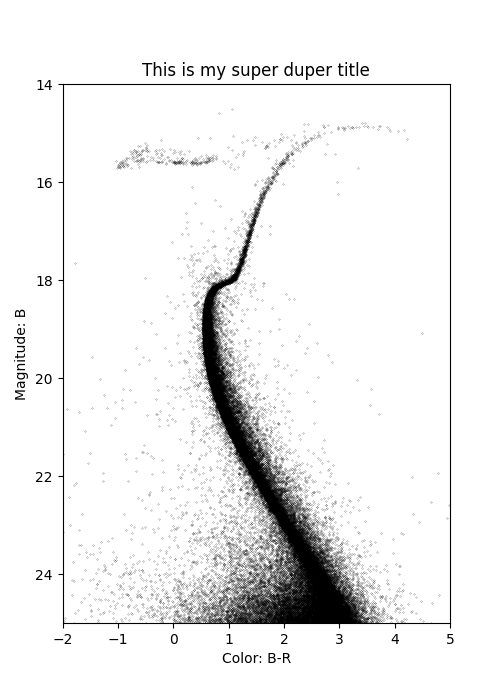
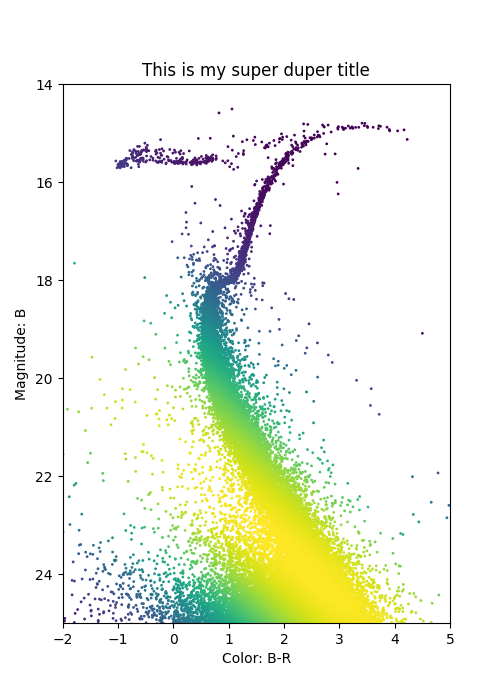
Testing thingy

diff --git a/2-6-25/lab1Ex.py b/2-6-25/lab1Ex.py
@@ -1,29 +1,34 @@
 #! /usr/bin/python
 import numpy as np
 import matplotlib.pyplot as plt
+from scipy.stats import gaussian_kde
 
 filename = 'NGC6341.dat'
 
-blueIn, greenIn, redIn = np.loadtxt(filename,usecols=(8,14,26),unpack=True)
+blueIn, greenIn, redIn = np.loadtxt(filename, usecols=(8, 14, 26), unpack=True)
 
-quality_cut = np.where((redIn > 20) &\
-                       (blueIn > 30) &\
+quality_cut = np.where((redIn > 20) &
+                       (blueIn > 30) &
                        (greenIn > 60))
 
-blue = np.delete(blueIn,quality_cut)
-red = np.delete(redIn,quality_cut)
-green = np.delete(greenIn,quality_cut)
+blue = np.delete(blueIn, quality_cut)
+red = np.delete(redIn, quality_cut)
+green = np.delete(greenIn, quality_cut)
 
 magnitude = blue
-color     = blue - red
+color = blue - red
 
-fig, ax = plt.subplots( figsize=(5, 7) )
+fig, ax = plt.subplots(figsize=(5, 7))
+xy = np.vstack([color, magnitude])
+z = gaussian_kde(xy)(xy)
 
-plt.plot(color, (magnitude), "k.",markersize=0.3)
-plt.gca().invert_yaxis()
-plt.title('This is my super duper title')
-plt.xlabel('Color: B-R')
-plt.ylabel('Magnitude: B')
-plt.ylim(25,14)
-plt.xlim(-2,5)
+ax.scatter(color, magnitude, c=z, s=1)
+ax.invert_yaxis()
+ax.set_title('This is my super duper title')
+ax.set_xlabel('Color: B-R')
+ax.set_ylabel('Magnitude: B')
+ax.set_ylim(25, 14)
+ax.set_xlim(-2, 5)
+
 plt.savefig('lab1.png')
+plt.show()
